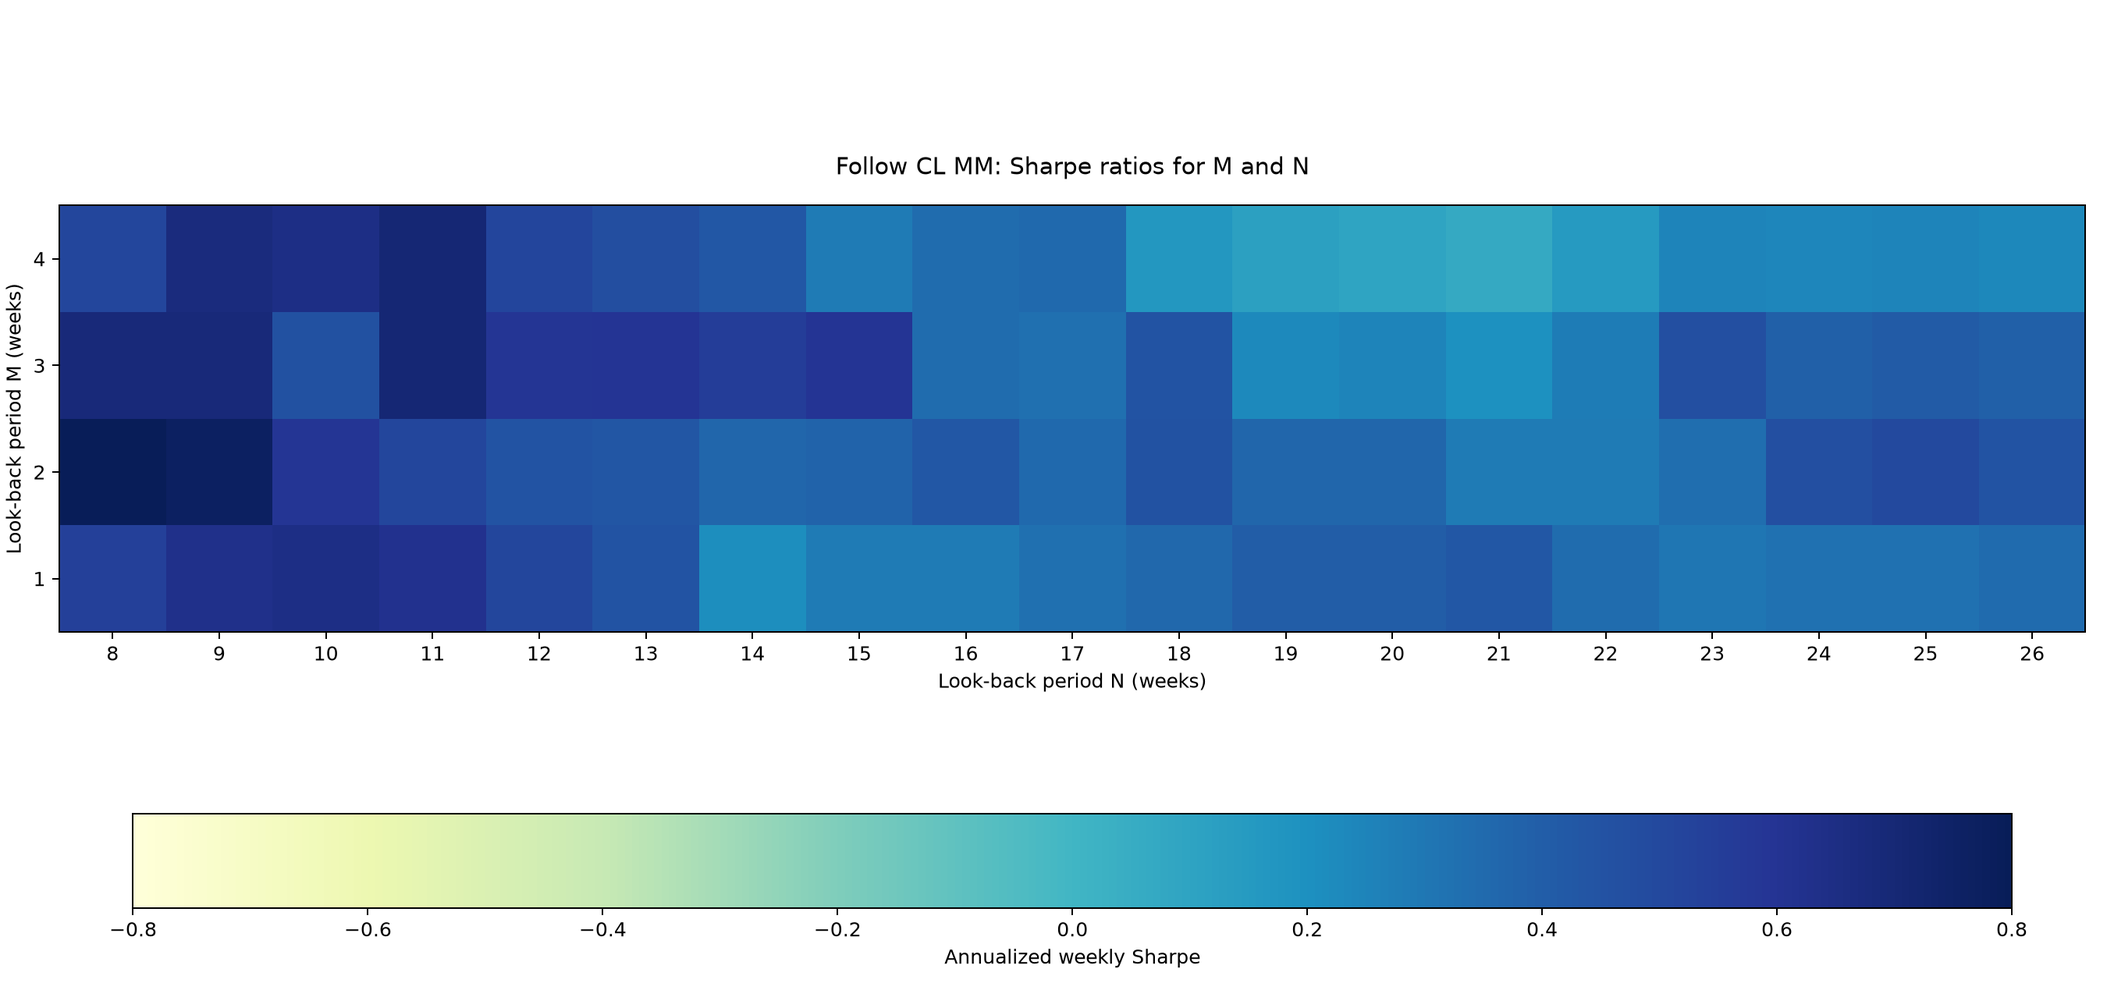
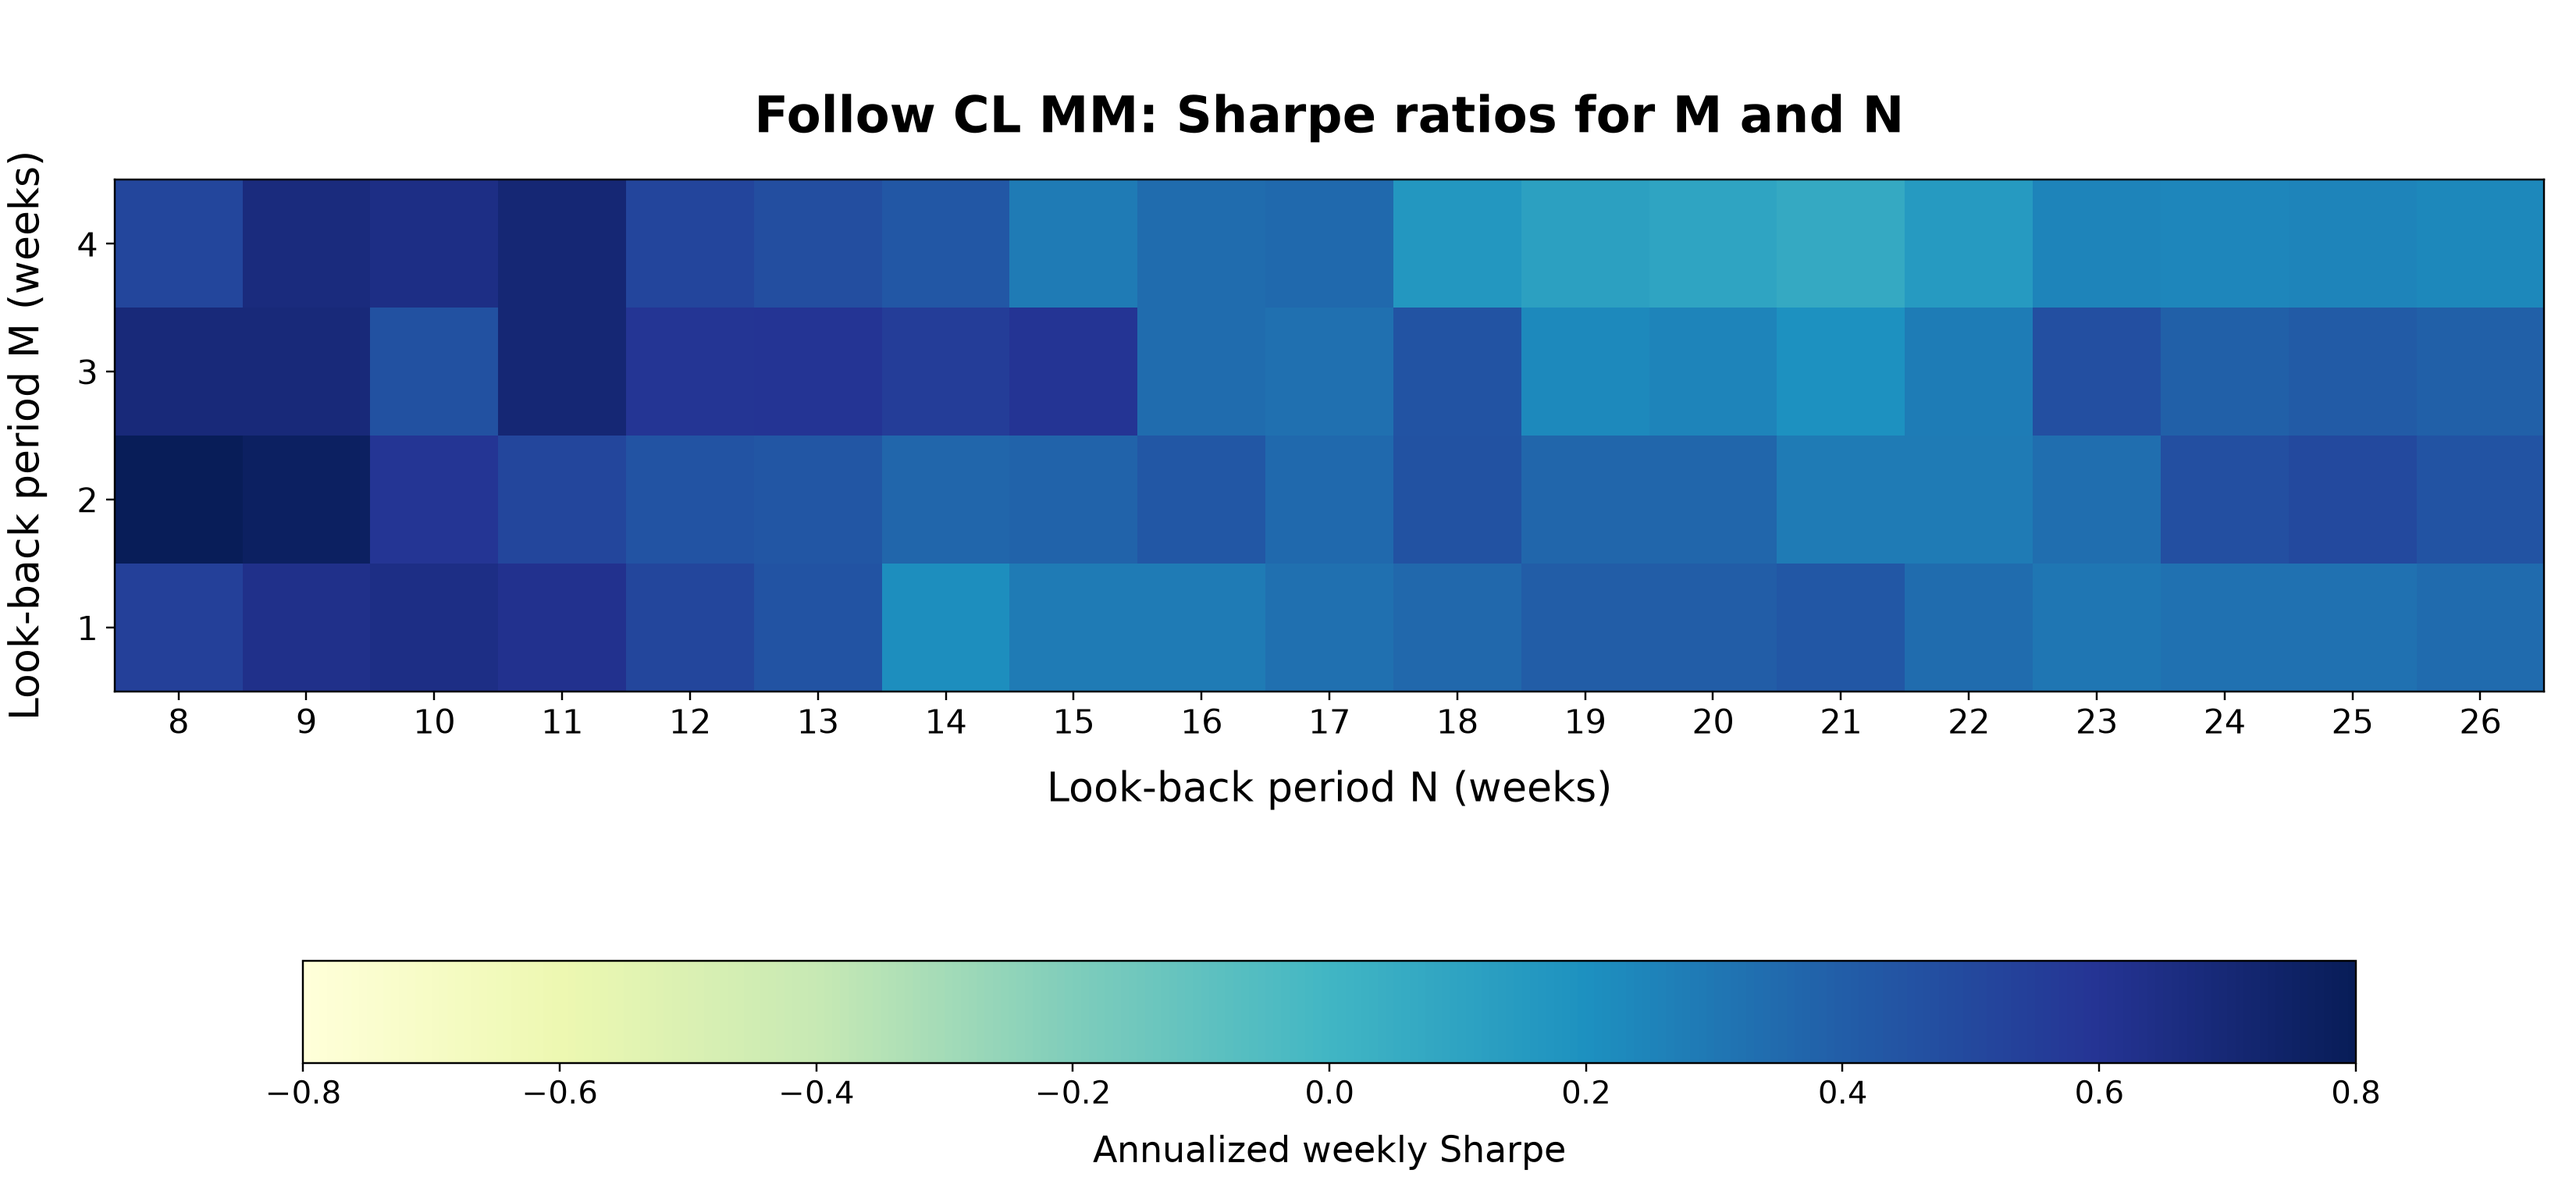
Remove tests and improve figure readability

diff --git a/src/backtest.py b/src/backtest.py
@@ -183,31 +183,41 @@ def monte_carlo_percentiles(
 def save_figures(ticker: str, sharpe: pd.DataFrame, percentiles: pd.DataFrame) -> None:
     # Plot the parameter sensitivity heatmap and simulated percentile paths.
     fig, ax = plt.subplots(figsize=(15, 7), constrained_layout=True)
-    image = ax.imshow(sharpe.to_numpy(dtype=float), cmap="YlGnBu", vmin=-0.8, vmax=0.8, aspect="equal")
-    ax.set_xticks(np.arange(len(sharpe.columns)), sharpe.columns)
-    ax.set_yticks(np.arange(len(sharpe.index)), sharpe.index)
-    ax.set_xlabel("Look-back period N (weeks)")
-    ax.set_ylabel("Look-back period M (weeks)")
-    ax.set_title(f"Follow {ticker} MM: Sharpe ratios for M and N", pad=16)
-    fig.colorbar(image, ax=ax, orientation="horizontal", pad=0.16, label="Annualized weekly Sharpe")
-    fig.savefig(config.OUTPUTS_DIR / f"{ticker}_sensitivity.png", dpi=180)
+    image = ax.imshow(
+        sharpe.to_numpy(dtype=float), cmap="YlGnBu",
+        vmin=-0.8, vmax=0.8, aspect="equal",
+    )
+    ax.set_xticks(np.arange(len(sharpe.columns)), sharpe.columns, fontsize=14)
+    ax.set_yticks(np.arange(len(sharpe.index)), sharpe.index, fontsize=14)
+    ax.set_xlabel("Look-back period N (weeks)", fontsize=17, labelpad=12)
+    ax.set_ylabel("Look-back period M (weeks)", fontsize=17, labelpad=12)
+    ax.set_title(f"Follow {ticker} MM: Sharpe ratios for M and N",
+                 fontsize=21, pad=20, fontweight="bold")
+    colorbar = fig.colorbar(
+        image, ax=ax, orientation="horizontal", pad=0.18,
+        label="Annualized weekly Sharpe",
+    )
+    colorbar.set_label("Annualized weekly Sharpe", fontsize=15, labelpad=10)
+    colorbar.ax.tick_params(labelsize=13)
+    fig.savefig(config.OUTPUTS_DIR / f"{ticker}_sensitivity.png", dpi=220)
     plt.close(fig)
 
-    fig, ax = plt.subplots(figsize=(12, 6))
+    fig, ax = plt.subplots(figsize=(16, 8), constrained_layout=True)
     for percentile in percentiles.columns:
         key = percentile in (5, 10, 50, 90, 95)
         ax.plot(percentiles.index, percentiles[percentile],
                 label=f"{percentile}th" if key else None,
-                linewidth=2 if key else 1, alpha=1 if key else 0.4,
+                linewidth=2.8 if key else 1.2, alpha=1 if key else 0.45,
                 linestyle="-" if key else "--", color=None if key else "black")
-    ax.set_title(f"Follow {ticker} MM: simulated cumulative P&L percentiles")
-    ax.set_xlabel("Date")
-    ax.set_ylabel("Cumulative P&L ($)")
+    ax.set_title(f"Follow {ticker} MM: simulated cumulative P&L percentiles",
+                 fontsize=21, pad=18, fontweight="bold")
+    ax.set_xlabel("Date", fontsize=17, labelpad=10)
+    ax.set_ylabel("Cumulative P&L ($)", fontsize=17, labelpad=10)
     ax.yaxis.set_major_formatter(StrMethodFormatter("{x:,.0f}"))
-    ax.legend(title="Percentile")
-    ax.grid()
-    fig.tight_layout()
-    fig.savefig(config.OUTPUTS_DIR / f"{ticker}_monte_carlo.png", dpi=180)
+    ax.tick_params(axis="both", labelsize=14)
+    ax.legend(title="Percentile", title_fontsize=15, fontsize=14, framealpha=0.95)
+    ax.grid(alpha=0.25, linewidth=0.8)
+    fig.savefig(config.OUTPUTS_DIR / f"{ticker}_monte_carlo.png", dpi=200)
     plt.close(fig)
 
 

diff --git a/README.md b/README.md
@@ -35,17 +35,21 @@ Monte Carlo charts show cumulative dollar-P&L percentiles from one million
 trials. In each trial, one of the 76 pairs is selected uniformly and
 independently for each holding week.
 
-### ICE Brent (`CO`)
+### ICE Brent (`CO`) sensitivity
 
-| Sensitivity | Monte Carlo |
-|---|---|
-| ![Brent sensitivity heatmap](outputs/CO_sensitivity.png) | ![Brent Monte Carlo P&L percentiles](outputs/CO_monte_carlo.png) |
+![Brent sensitivity heatmap](outputs/CO_sensitivity.png)
 
-### WTI (`CL`)
+### ICE Brent (`CO`) Monte Carlo
 
-| Sensitivity | Monte Carlo |
-|---|---|
-| ![WTI sensitivity heatmap](outputs/CL_sensitivity.png) | ![WTI Monte Carlo P&L percentiles](outputs/CL_monte_carlo.png) |
+![Brent Monte Carlo P&L percentiles](outputs/CO_monte_carlo.png)
+
+### WTI (`CL`) sensitivity
+
+![WTI sensitivity heatmap](outputs/CL_sensitivity.png)
+
+### WTI (`CL`) Monte Carlo
+
+![WTI Monte Carlo P&L percentiles](outputs/CL_monte_carlo.png)
 
 ## Data and execution
 
@@ -57,7 +61,6 @@ source .venv/bin/activate
 python -m pip install -r requirements.txt
 python src/process_data.py
 python src/backtest.py
-python -m unittest discover -s tests
 ```
 
 Place the settlement/expiration workbook and annual ICE `COTHistYYYY.csv`
